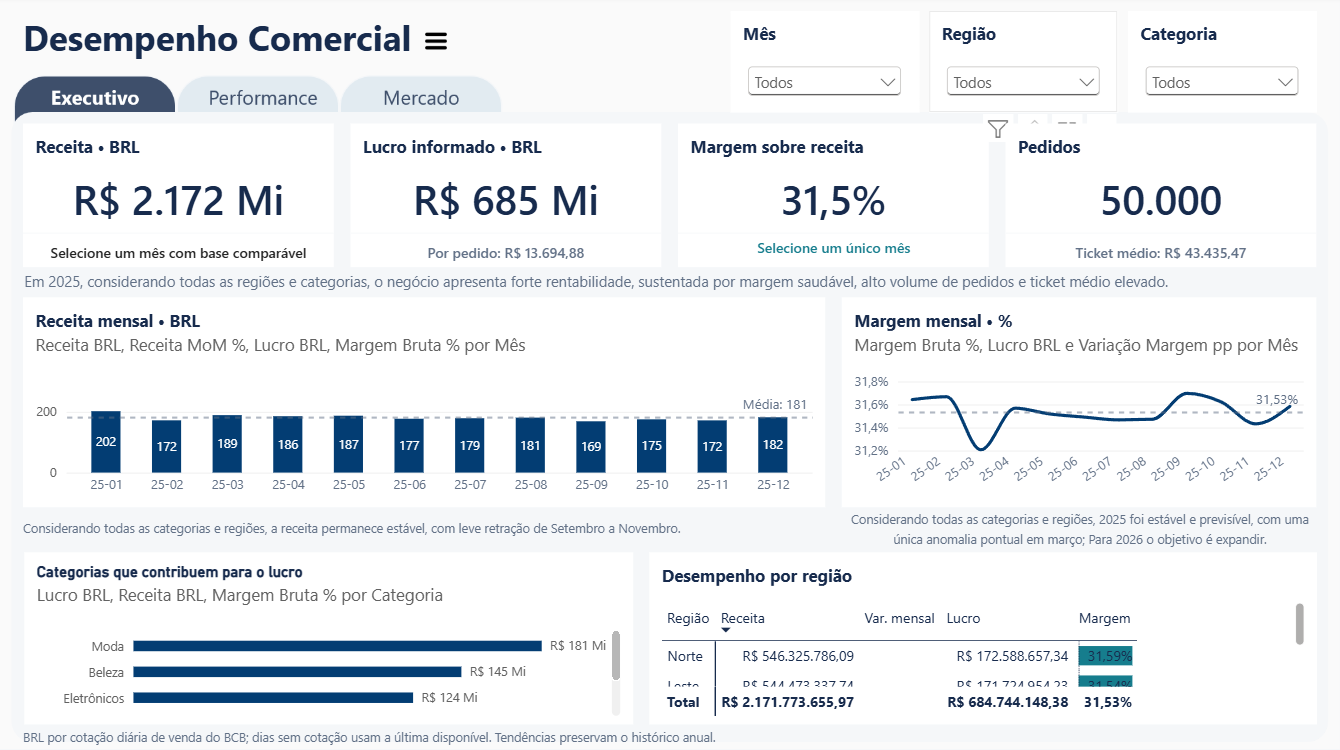
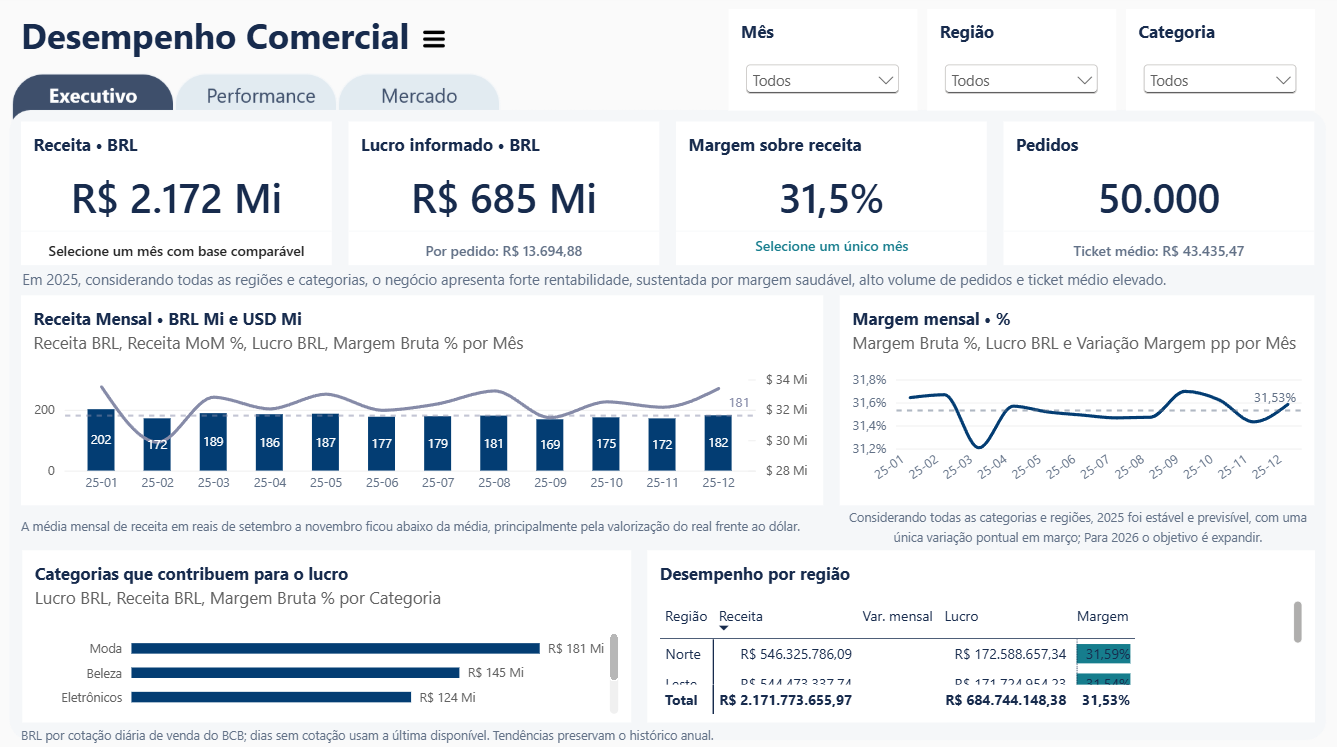
updates

diff --git a/Documentation/DAX_Measures.md b/Documentation/DAX_Measures.md
@@ -1,6 +1,6 @@
 # Medidas DAX
 
-Catálogo das **30 medidas** do modelo semântico do **Sales Executive Dashboard**, organizadas nas 9 pastas de exibição da tabela `_measures`.
+Catálogo das **33 medidas** do modelo semântico do **Sales Executive Dashboard**, organizadas nas 9 pastas de exibição da tabela `_measures`.
 
 > **Moeda:** os valores de origem estão em USD. As medidas com sufixo **BRL** convertem cada dia pela cotação USD/BRL do Banco Central (`dim_calendar[Taxa_USD_BRL]`). As medidas base em USD (`Receita`, `Lucro`, `Custo`) servem de insumo para as versões em BRL.
 
@@ -21,6 +21,9 @@ Catálogo das **30 medidas** do modelo semântico do **Sales Executive Dashboard
 |  | [Lucro por Pedido](#lucro-por-pedido) | Moeda (BRL) |
 |  | [Lucro BRL](#lucro-brl) | Moeda (BRL) |
 |  | [Lucro Top 10 Produtos BRL](#lucro-top-10-produtos-brl) | Moeda (BRL) |
+|  | [Lucro Top 10 %](#lucro-top-10-) | Percentual |
+|  | [Top 10 Portfolio %](#top-10-portfolio-) | Percentual |
+|  | [Perf Lucro Top 10](#perf-lucro-top-10) | Texto |
 | [Margem](#margem) | [Margem Bruta %](#margem-bruta-) | Percentual |
 |  | [Margem Mês Anterior](#margem-mês-anterior) | Percentual |
 |  | [Variação Margem pp](#variação-margem-pp) | Pontos percentuais |
@@ -73,7 +76,7 @@ Pedidos = DISTINCTCOUNT(fact_sales[Order_ID])
 
 ### Receita
 
-**Formato:** Moeda (USD) `\$#,0.###############;(\$#,0.###############);\$#,0.###############`<br>
+**Formato:** Moeda (USD) ` "$" #,0.00;("$" #,0.00);"$" #,0.00`<br>
 **Usada por:** [Receita BRL](#receita-brl)
 
 ```dax
@@ -193,7 +196,7 @@ Lucro = SUM(fact_sales[Profit])
 
 **Formato:** Moeda (BRL) `"R$" #,0.00;("R$" #,0.00);"R$" #,0.00`<br>
 **Usa:** [Lucro](#lucro-1)<br>
-**Usada por:** [Lucro Top 10 Produtos BRL](#lucro-top-10-produtos-brl), [Lucro por Pedido](#lucro-por-pedido), [Margem Bruta %](#margem-bruta-)
+**Usada por:** [Lucro Top 10 %](#lucro-top-10-), [Lucro Top 10 Produtos BRL](#lucro-top-10-produtos-brl), [Lucro por Pedido](#lucro-por-pedido), [Margem Bruta %](#margem-bruta-), [Perf Lucro Top 10](#perf-lucro-top-10), [Top 10 Portfolio %](#top-10-portfolio-)
 
 ```dax
 'Lucro BRL' =
@@ -224,7 +227,7 @@ Lucro = SUM(fact_sales[Profit])
 
 ```dax
 'Lucro Top 10 Produtos BRL' =
-    VAR Universo =
+     VAR Universo =
         CALCULATETABLE(
             ADDCOLUMNS(VALUES(dim_product[Product_Key]), "@Lucro", [Lucro BRL]),
             ALLSELECTED(dim_product)
@@ -232,6 +235,66 @@ Lucro = SUM(fact_sales[Profit])
     VAR Lideres = TOPN(10, Universo, [@Lucro], DESC, dim_product[Product_Key], ASC)
     VAR ProdutoAtual = SELECTEDVALUE(dim_product[Product_Key])
     RETURN IF(CONTAINS(Lideres, dim_product[Product_Key], ProdutoAtual), [Lucro BRL])
+```
+
+### Lucro Top 10 %
+
+**Formato:** Percentual `0.0%;-0.0%;0.0%`<br>
+**Usa:** [Lucro BRL](#lucro-brl)<br>
+**Usada por:** [Perf Lucro Top 10](#perf-lucro-top-10)
+
+```dax
+'Lucro Top 10 %' =
+    VAR Universo =
+        CALCULATETABLE (
+            ADDCOLUMNS ( VALUES ( dim_product[Product_Key] ), "@Lucro", [Lucro BRL] ),
+            ALLEXCEPT ( dim_product, dim_product[Categoria] )
+        )
+    VAR Lideres = TOPN ( 10, Universo, [@Lucro], DESC, dim_product[Product_Key], ASC )
+    RETURN DIVIDE ( SUMX ( Lideres, [@Lucro] ), SUMX ( Universo, [@Lucro] ) )
+```
+
+### Top 10 Portfolio %
+
+**Formato:** Percentual `0.0%;-0.0%;0.0%`<br>
+**Usa:** [Lucro BRL](#lucro-brl)<br>
+**Usada por:** [Perf Lucro Top 10](#perf-lucro-top-10)
+
+```dax
+'Top 10 Portfolio %' =
+    VAR Universo =
+        CALCULATETABLE (
+            ADDCOLUMNS ( VALUES ( dim_product[Product_Key] ), "@Lucro", [Lucro BRL] ),
+            ALLEXCEPT ( dim_product, dim_product[Categoria] )
+        )
+    VAR ProdutosComVenda = COUNTROWS ( FILTER ( Universo, NOT ISBLANK ( [@Lucro] ) ) )
+    RETURN
+    DIVIDE ( MIN ( 10, ProdutosComVenda ), ProdutosComVenda )
+```
+
+### Perf Lucro Top 10
+
+**Formato:** Texto dinâmico<br>
+**Usa:** [Lucro BRL](#lucro-brl), [Lucro Top 10 %](#lucro-top-10-), [Top 10 Portfolio %](#top-10-portfolio-)
+
+```dax
+'Perf Lucro Top 10' =
+    VAR Universo =
+        CALCULATETABLE (
+            ADDCOLUMNS ( VALUES ( dim_product[Product_Key] ), "@Lucro", [Lucro BRL] ),
+            ALLEXCEPT ( dim_product, dim_product[Categoria] )
+        )
+    VAR ProdutosComVenda = COUNTROWS ( FILTER ( Universo, NOT ISBLANK ( [@Lucro] ) ) )
+    RETURN
+        IF (
+            ProdutosComVenda <= 10,
+            "Filtro com " & ProdutosComVenda & " produtos: todos estão no Top 10",
+            "Os 10 mais lucrativos representam: "
+                & FORMAT ( [Top 10 Portfolio %], "0%", "pt-BR" )
+                & " do portfólio e "
+                & FORMAT ( [Lucro Top 10 %], "0%", "pt-BR" )
+                & " do lucro"
+        )
 ```
 
 [Voltar ao índice](#índice)
